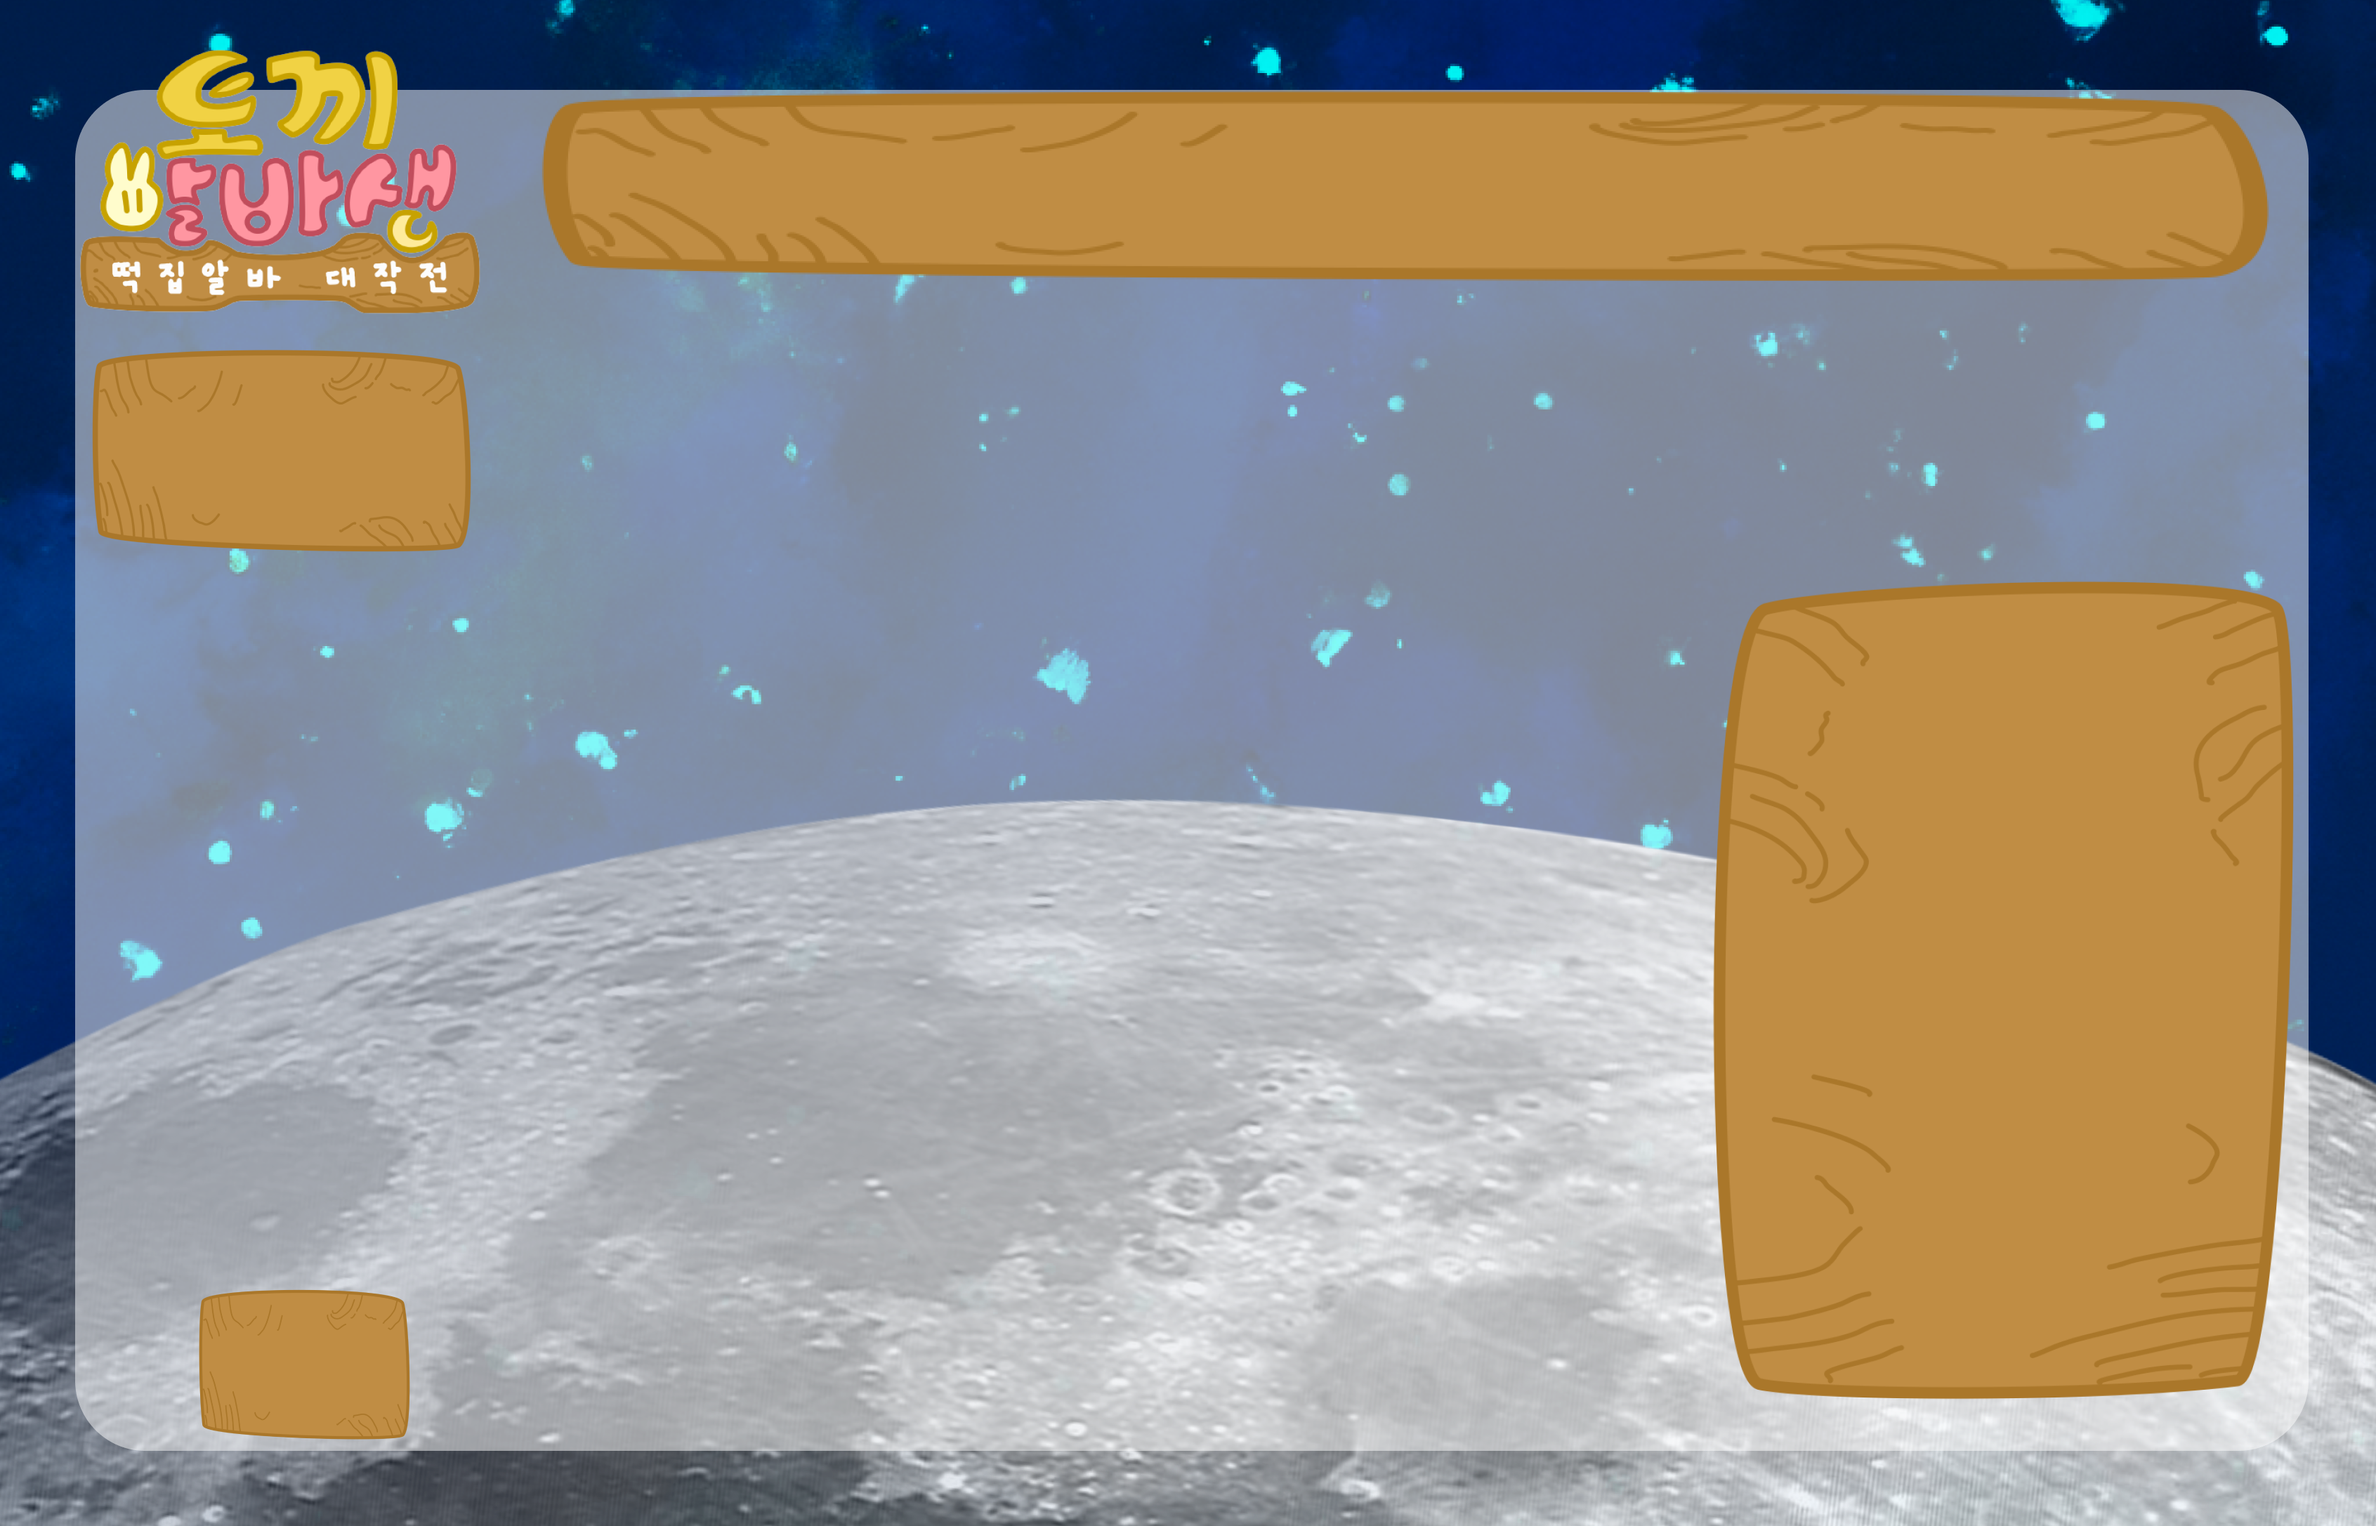
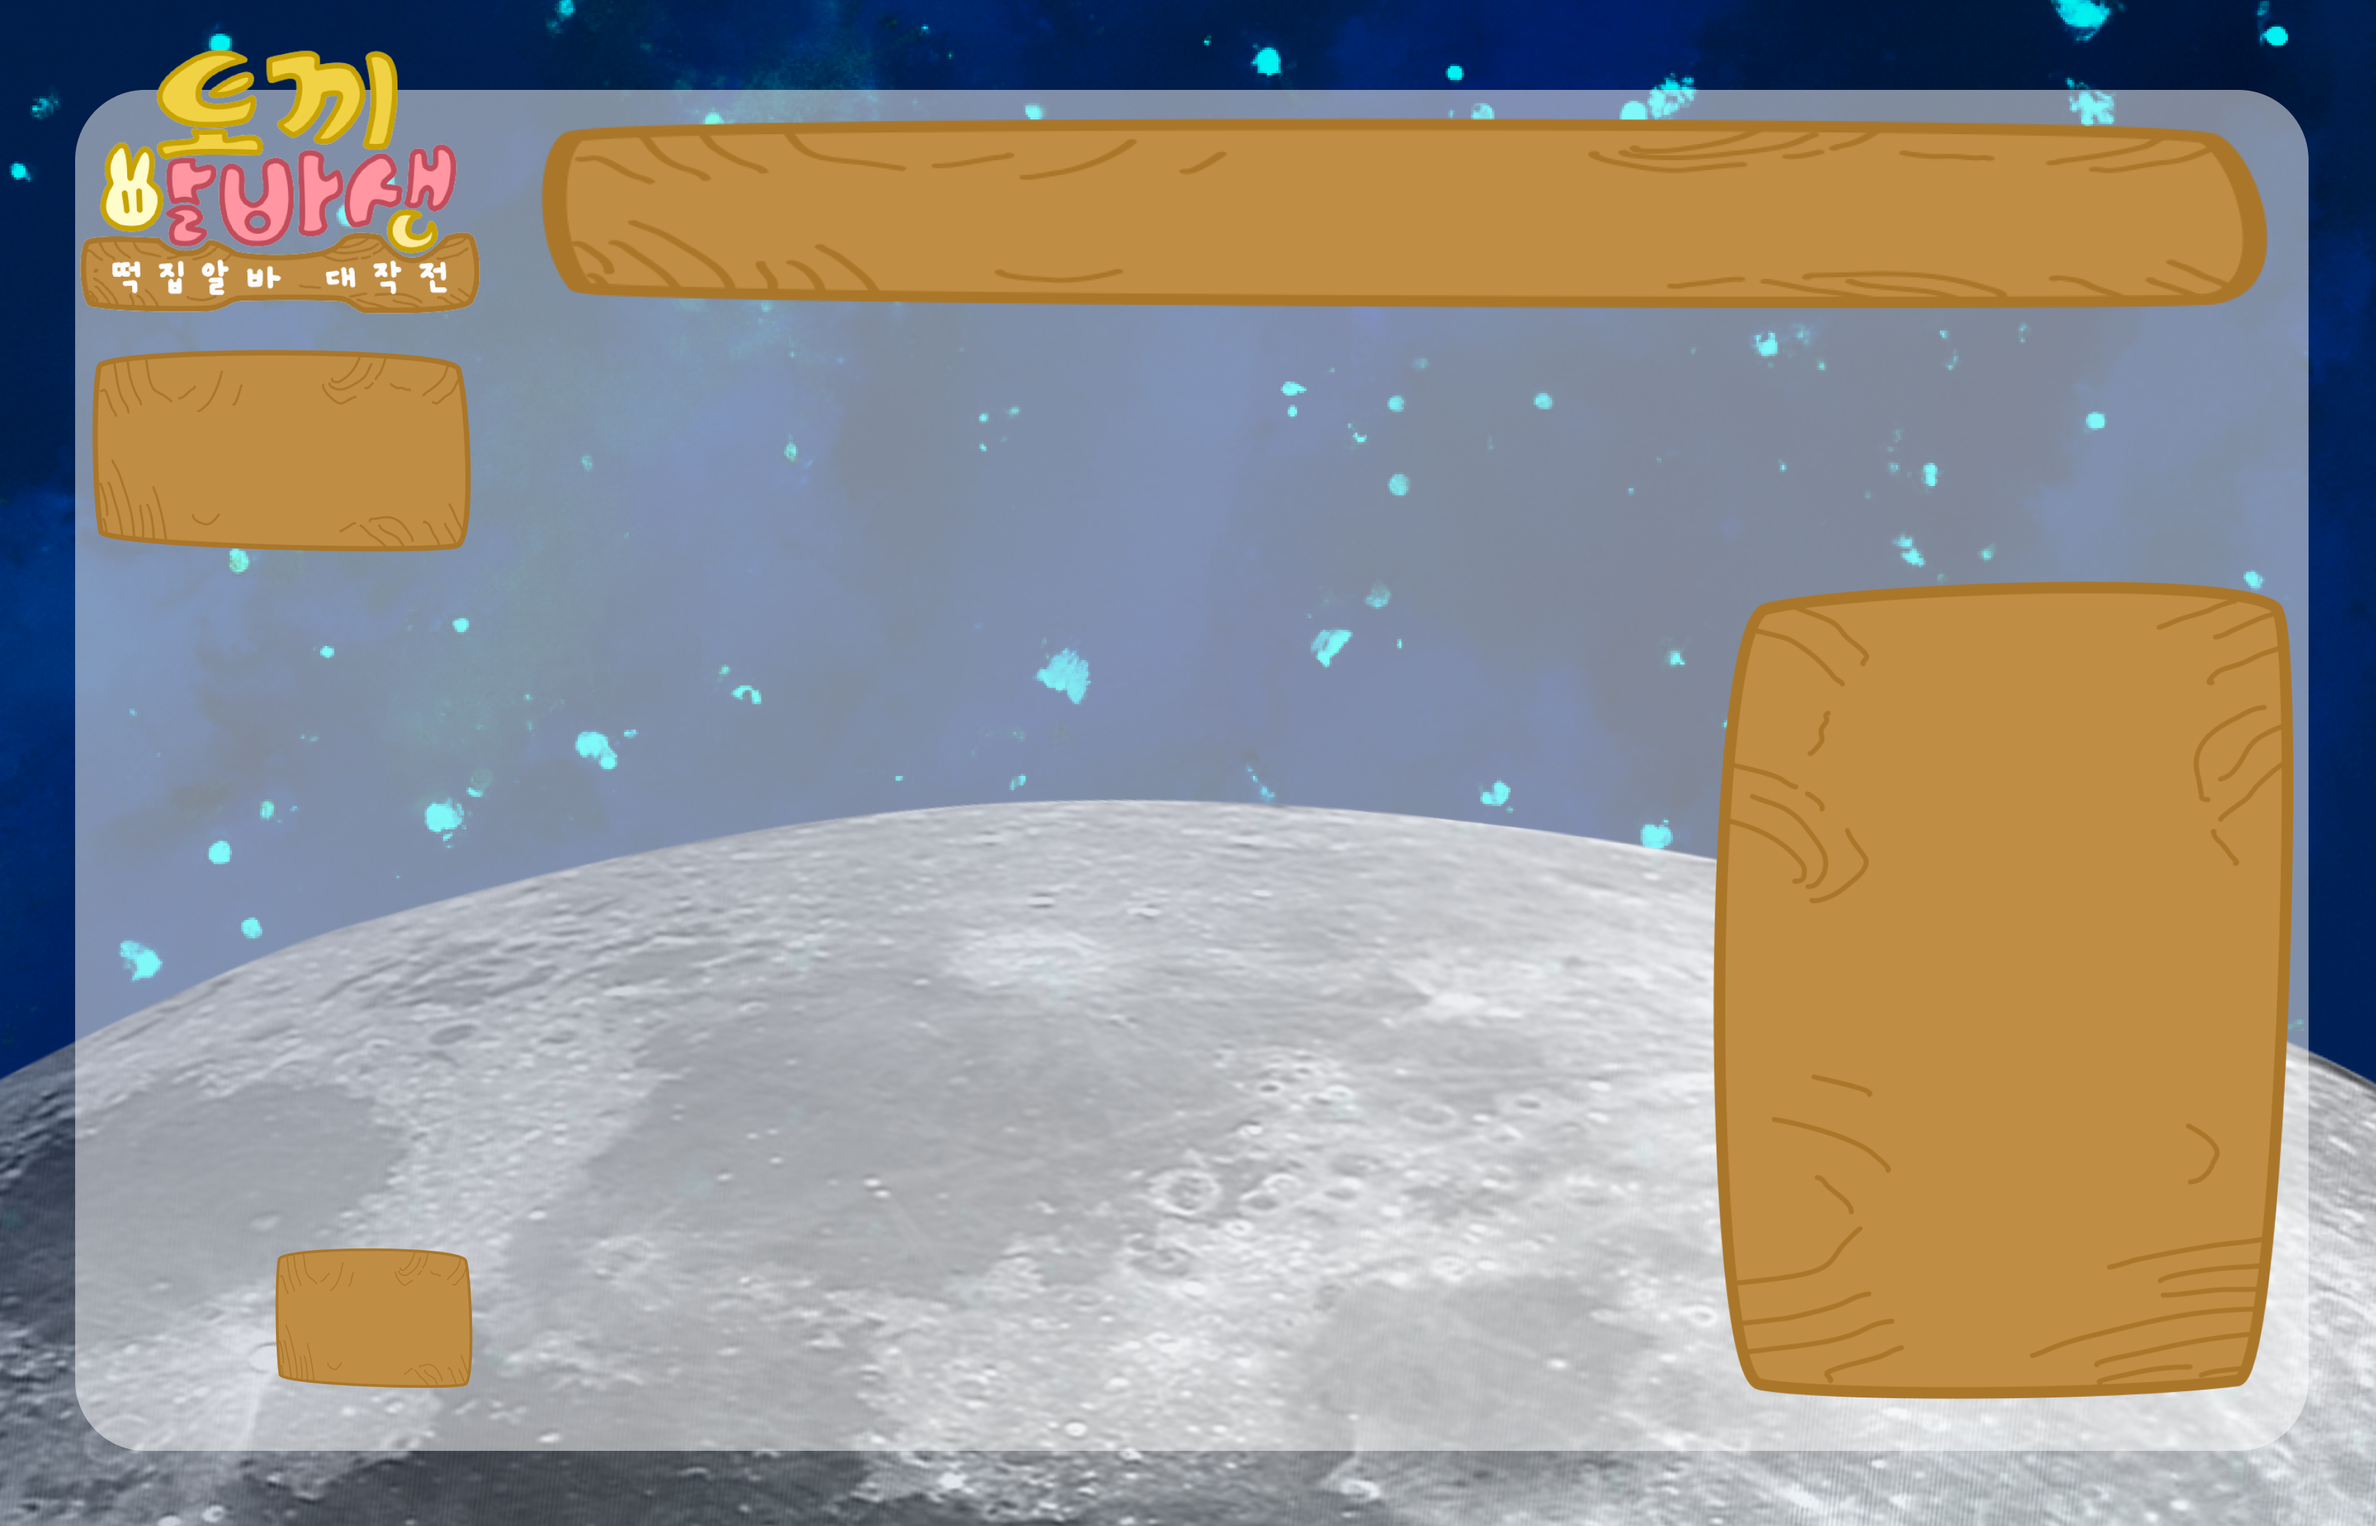
바구니 위치 수정 및 배경 이미지 수정

Changed region(s): [[0.2173, 0.0617, 0.9622, 0.2158], [0.0621, 0.8017, 0.2173, 0.9558]]

diff --git a/views/css/gamePlayPage.css b/views/css/gamePlayPage.css
@@ -13,8 +13,10 @@ body {
 }
 
 #basket-image{
-    margin-left: -100px;
-    margin-top: -20px;
+    width: 200px;
+    height: 200px;
+    margin-left: 80px;
+    margin-top: -24%;
 }
 
 #image-container{
